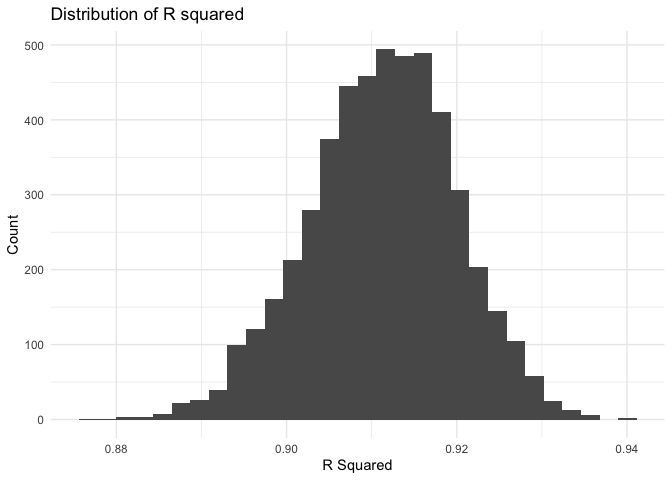
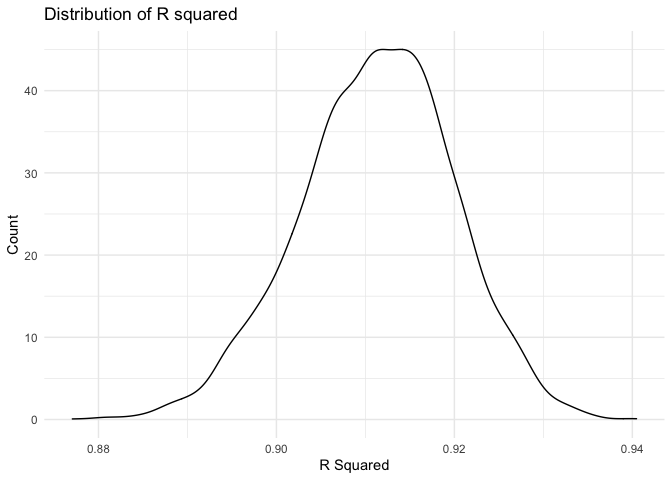
correct problem 2 code + add comments to chunks

diff --git a/p8105_hw6_by2287.md b/p8105_hw6_by2287.md
@@ -38,13 +38,22 @@ glm(resolution ~ victim_age + victim_sex + victim_race, family = binomial() , da
   ) %>% 
   select(term, odds_ratio, starts_with("CI")) %>% 
   knitr::kable(digits = 3)
+
+baltimore_logitstic
 ```
+
+| term              | odds\_ratio | ci\_lower | ci\_upper |
+| :---------------- | ----------: | --------: | --------: |
+| (Intercept)       |       1.363 |     0.975 |     1.907 |
+| victim\_age       |       0.993 |     0.987 |     1.000 |
+| victim\_sexMale   |       0.426 |     0.325 |     0.558 |
+| victim\_raceWhite |       2.320 |     1.648 |     3.268 |
 
 #### Fit a logistic regression on all the cities
 
 ``` r
 models_results = homicide_df %>% 
-  mutate(victim_race = fct_relevel(victim_race, "White")) %>% #reordering to compare black victims to white victims
+  #mutate(victim_race = fct_relevel(victim_race, "White")) %>% #reordering to compare black victims to white victims
   nest(data = -city_state) %>% 
   mutate(
     models = map(.x = data, ~ glm(resolution ~ victim_age + victim_sex + victim_race, data = .x, family = binomial())),
@@ -72,29 +81,29 @@ models_results %>%
  theme(axis.text.x = element_text(angle = 60, vjust = 1.0, hjust = 1), legend.position = "none") + 
  geom_hline(yintercept=1, linetype="dashed", color = "red", size=0.5) +
   labs(
-    title = "Odds Ratio of case Resolution Status, by City",
-    subtitle  = "Comparing whether a homicide case is resolved for male Black victims to White victims, by City",
-    x = "Odds Ratio",
-    y = "City-States"
+    title = "Odds Ratio of Homicide case Resolution Status, by City",
+    subtitle  = "The odds ratio of case resolution, comparing male victims to female victims, controlling for age & sex",
+    y = "Odds Ratio",
+    x = "City-States"
   )  
 ```
 
 ![](p8105_hw6_by2287_files/figure-gfm/unnamed-chunk-5-1.png)<!-- -->
 
-The estimated odds of a homicide case being resolved for male Black
-victims compared to the estimated odds of a homicide case being resolved
-for White victims is lowest is New York City, NY (with evidence of
-statistical significance); and highest in Albuquerque New Mexico,
-although this is not statistical significant. The former observation
-means that in New York City (as well as Baton Rouge, Louisiana; Omaha,
-Nebraska; Chicago, Illinois, and others whose Odds Ratio & and their 95%
-confidence interval is well below the dashed red line), if the homicide
-victims are Black, the likelihood that that case will be resolved is
-lower than if they were a white victim. However, this observation
-doesn’t hold true in Boston, MA, Tampa, Florida, Atlanta, Georgia and
-other city-states whose odds ration and 95% confidence interval either
-crosses or is above the null value of odds ratio = 1 (indicated by the
-dashed red line.)
+The estimated odds of a homicide case being resolved for male victims
+compared to the estimated odds of a homicide case being resolved for
+female victims is lowest is New York City, NY (with evidence of
+statistical significance), adjusting for race, age; and highest in
+Albuquerque New Mexico, although this is not statistical significant.
+The former observation means that in New York City (as well as Baton
+Rouge, Louisiana; Omaha, Nebraska; Chicago, Illinois, and others whose
+Odds Ratio & and their 95% confidence interval is below the dashed red
+line), if the homicide victims are males, the likelihood that that case
+will be resolved is lower than if they were a female victim. However,
+this observation doesn’t hold true in Boston, MA, Tampa, Florida,
+Atlanta, Georgia and other city-states whose odds ration and 95%
+confidence interval either crosses or is above the null value of odds
+ratio = 1 (indicated by the dashed red line.)
 
 ## Problem 2
 
@@ -122,6 +131,7 @@ baby_df =
         mrace == 8 ~ "Other",
         TRUE ~ ""
       ) %>% as.factor(),
+    mrace = fct_relevel(mrace, "Other"),
     delwt = delwt*453.592 %>% round(2),
     mheight = mheight*2.54 %>% round(2)
   )
@@ -170,18 +180,18 @@ None of the variables contain missing values
 
 #### Proposing an initial model for birthweight
 
-Hypothesis driving proposed model:
+Hypothesis driven approach to build a model:
 
 An infant’s overall health depends on the overall health status of the
 mother and the mother’s physical ability (without considering
 sociodemographic factors) play important roles in determining the baby’s
 health, and indeed the baby’s birthweight. I will treat three factors as
 proxies of the mother’s health status and physical ability: mother’s
-weight, height, and age.
+`weight`, `height`, and `age`.
 
-Therefore, I hypothesize that a baby’s birhtweight can be explained by a
-linear relationship to a mother’s weight, adjusting for height and age.
-I propose to build a linear models that attemps to describe this
+Therefore, I hypothesize that a baby’s `birhtweight` can be explained by
+a linear relationship to a mother’s `weight`, adjusting for `height` and
+`age`. I propose to build a linear model that attempts to describe this
 relationship.
 
 First, I will assess the linearity and normality assumption a `linear`
@@ -201,15 +211,16 @@ baby_df %>%
   )
 ```
 
-![](p8105_hw6_by2287_files/figure-gfm/unnamed-chunk-8-1.png)<!-- --> The
-histogram of a baby birthweight in the data follows a normal
+![](p8105_hw6_by2287_files/figure-gfm/unnamed-chunk-8-1.png)<!-- -->
+
+The histogram of a baby birth-weight in the data follows a normal
 distribution as shown above.
 
-I will next assess the linearity assumption by plotting a scatter plot
-between the outcome variable `birthweight` and these three proposed
-predictors.
-
 **Linearity Assumption**
+
+I will next assess the linearity assumption by plotting a scatter plot
+between the outcome variable `birthweight` and these three continuous
+proposed predictors.
 
 ``` r
 bwt_delwt = baby_df %>% 
@@ -260,27 +271,30 @@ linear model.
 
 #### Fitting the proposed Initial model
 
-\#\#\#\#Fitting a smooth model
-
 ``` r
 lin_fit = 
   baby_df %>% 
 lm(bwt ~ delwt + mheight + momage, data = .) 
 ```
 
-model summary
+**Model summary**
 
 ``` r
 lin_fit %>% 
   broom::glance() %>% 
+  select(r.squared, adj.r.squared, sigma, statistic, p.value, df, nobs) %>% 
   knitr::kable(digits = 2)
 ```
 
-| r.squared | adj.r.squared |  sigma | statistic | p.value | df |     logLik |      AIC |      BIC |   deviance | df.residual | nobs |
-| --------: | ------------: | -----: | --------: | ------: | -: | ---------: | -------: | -------: | ---------: | ----------: | ---: |
-|       0.1 |           0.1 | 485.73 |    162.69 |       0 |  3 | \-33017.17 | 66044.34 | 66076.22 | 1023497467 |        4338 | 4342 |
+| r.squared | adj.r.squared |  sigma | statistic | p.value | df | nobs |
+| --------: | ------------: | -----: | --------: | ------: | -: | ---: |
+|       0.1 |           0.1 | 485.73 |    162.69 |       0 |  3 | 4342 |
 
-model estimates
+It appears that the initial model, with an r.squared value of 0.1, only
+explains about 10% of the variation in the outcome variable: baby’s
+`birthweight`
+
+**Model estimates**
 
 ``` r
 lin_fit %>% 
@@ -303,6 +317,7 @@ baby_df %>%
   add_predictions(lin_fit) %>% 
   ggplot(aes(x = pred, y = resid)) + 
   geom_point(alpha = .2) + 
+  geom_smooth(se = F) + 
   labs(
     title = "Fitted Values Vs. Residuals (Initial Model)",
     x = "Model Predicted Birthweight",
@@ -310,21 +325,30 @@ baby_df %>%
   )
 ```
 
+    ## `geom_smooth()` using method = 'gam' and formula 'y ~ s(x, bs = "cs")'
+
 ![](p8105_hw6_by2287_files/figure-gfm/unnamed-chunk-13-1.png)<!-- -->
 
 The residuals appear to be evenly distributed for the most part, save
-for what appears to be a cluster at weight range 3000 - 3250 grams.
+for what appears to be a cluster at weight range 3000 - 3250 grams, and
+a somewhat curved trend as the predicted birthweight increases. This
+perhaps indicates that the linear fit model has clear shortcomings when
+trying describe/predict birthweight, given the predictors the model is
+based off of.
 
 #### Building two additional models with different predictors & compare to the initial model:
 
 Two models:
 
-One using length at birth and gestational age as predictors (main
-effects only) One using head circumference, length, sex, and all
-interactions (including the three-way interaction) between these
+  - One using length at birth and gestational age as predictors (main
+    effects only)
+  - One using head circumference, length, sex, and all interactions
+    (including the three-way interaction) between these
+
+<!-- end list -->
 
 ``` r
-#model 2
+#model 2 - Main_Model 
 baby_df %>% 
 lm(bwt ~ blength + gaweeks, data = .) %>% 
   broom::tidy() %>% 
@@ -338,7 +362,7 @@ lm(bwt ~ blength + gaweeks, data = .) %>%
 | gaweeks     |     27.047 |     1.718 |    15.744 |       0 |
 
 ``` r
-#model 3
+#model 3 - Interact_Model
 baby_df %>% 
   lm(bwt ~ bhead + blength + babysex + bhead*blength*babysex, data = .) %>% 
   broom::tidy() %>% 
@@ -378,18 +402,18 @@ RMSE values of the corresponding models
 ``` r
 cv_df = cv_df %>% 
   mutate(
-    model_1 = map(.x = train, ~lm(bwt ~ delwt + mheight + momage, data = .x)),
-    model_2 = map(.x = train, ~ lm(bwt ~ blength + gaweeks, data = .x)),
-    model_3 = map(.x = train, ~ lm(bwt ~ bhead + blength + babysex + bhead*blength*babysex, data = .x))
+    initial_model = map(.x = train, ~lm(bwt ~ delwt + mheight + momage, data = .x)),
+    main_model = map(.x = train, ~ lm(bwt ~ blength + gaweeks, data = .x)),
+    interact_model = map(.x = train, ~ lm(bwt ~ bhead + blength + babysex + bhead*blength*babysex, data = .x))
   ) %>% 
   mutate(
-    rmse_model_1 = map2_dbl(.x = model_1, .y = test, ~rmse(model = .x, data =.y)),
-    rmse_model_2 = map2_dbl(.x = model_2, .y = test, ~rmse(model = .x, data =.y)),
-    rmse_model_3 = map2_dbl(.x = model_3, .y = test, ~rmse(model = .x, data =.y))
+    rmse_initial_model = map2_dbl(.x = initial_model, .y = test, ~rmse(model = .x, data =.y)),
+    rmse_main_model = map2_dbl(.x = main_model, .y = test, ~rmse(model = .x, data =.y)),
+    rmse_interact_model = map2_dbl(.x = interact_model, .y = test, ~rmse(model = .x, data =.y))
   ) 
 ```
 
-Compare RMSE’s of the `smooth` and `linear` model
+Compare RMSE’s of the 3 models
 
 ``` r
 #tidy the cross_validation dataframe first
@@ -411,11 +435,11 @@ rmse_df %>%
   knitr::kable()
 ```
 
-| model    | mean\_rmse |
-| :------- | ---------: |
-| model\_1 |   487.1363 |
-| model\_2 |   332.2287 |
-| model\_3 |   288.6030 |
+| model           | mean\_rmse |
+| :-------------- | ---------: |
+| initial\_model  |   487.1363 |
+| interact\_model |   288.6030 |
+| main\_model     |   332.2287 |
 
 ``` r
 #Plot the distribution of the RMSE values
@@ -432,8 +456,8 @@ rmse_df %>%
 
 ![](p8105_hw6_by2287_files/figure-gfm/unnamed-chunk-17-1.png)<!-- -->
 
-Of the 3 models built here the 3rd model (`bwt ~ bhead + blength +
-babysex + bhead*blength*babysex`) appears to be the best model to
+Of the 3 models built here the `interact_model` (`bwt ~ bhead + blength
++ babysex + bhead*blength*babysex`) appears to be the best model to
 predict `birthweight`, using RMSE as a discriminator.
 
 Fit the best model
@@ -444,20 +468,20 @@ best_model =
   lm(bwt ~ bhead + blength + babysex + bhead*blength*babysex, data = .)
 
 best_model %>%
-  broom::tidy()
+  broom::tidy() %>% 
+  knitr::kable()
 ```
 
-    ## # A tibble: 8 x 5
-    ##   term                      estimate std.error statistic    p.value
-    ##   <chr>                        <dbl>     <dbl>     <dbl>      <dbl>
-    ## 1 (Intercept)                -802.    1102.       -0.728 0.467     
-    ## 2 bhead                       -16.6     34.1      -0.487 0.626     
-    ## 3 blength                     -21.6     23.4      -0.926 0.354     
-    ## 4 babysexmale               -6375.    1678.       -3.80  0.000147  
-    ## 5 bhead:blength                 3.32     0.713     4.67  0.00000317
-    ## 6 bhead:babysexmale           198.      51.1       3.88  0.000105  
-    ## 7 blength:babysexmale         124.      35.1       3.52  0.000429  
-    ## 8 bhead:blength:babysexmale    -3.88     1.06     -3.67  0.000245
+| term                      |      estimate |    std.error |   statistic |   p.value |
+| :------------------------ | ------------: | -----------: | ----------: | --------: |
+| (Intercept)               |  \-801.948671 | 1102.3077046 | \-0.7275180 | 0.4669480 |
+| bhead                     |   \-16.597546 |   34.0916082 | \-0.4868514 | 0.6263883 |
+| blength                   |   \-21.645964 |   23.3720477 | \-0.9261475 | 0.3544209 |
+| babysexmale               | \-6374.868351 | 1677.7669213 | \-3.7996150 | 0.0001469 |
+| bhead:blength             |      3.324444 |    0.7125586 |   4.6655020 | 0.0000032 |
+| bhead:babysexmale         |    198.393181 |   51.0916850 |   3.8830816 | 0.0001047 |
+| blength:babysexmale       |    123.772887 |   35.1185360 |   3.5244319 | 0.0004288 |
+| bhead:blength:babysexmale |    \-3.878053 |    1.0566296 | \-3.6702106 | 0.0002453 |
 
 Plotting residuals vs. fitted values - of the
 
@@ -467,8 +491,9 @@ baby_df %>%
   add_predictions(best_model) %>% 
   ggplot(aes(x = pred, y = resid)) + 
   geom_point(alpha = .2) + 
+  geom_smooth(se = F) + 
   labs(
-    title = "Fitted Values Vs. Residuals (3rd & best Model)",
+    title = "Fitted Values Vs. Residuals (Interact_Model)",
     x = "Model Predicted Birthweight",
     y = "Model Residuals"
   )
@@ -476,7 +501,7 @@ baby_df %>%
 
 ![](p8105_hw6_by2287_files/figure-gfm/unnamed-chunk-19-1.png)<!-- -->
 
-The residuals appear to not be evenly distributed in the plot shown
+The residuals appear to mostly evenly distributed in the plot shown
 above.
 
 ## Problem 3
@@ -537,10 +562,13 @@ r_squred_distb %>%
 | --------: | --------: |
 |    0.8937 |    0.9275 |
 
+Plotting the distribution of the `r.squared` values obtained after
+bootstrapping
+
 ``` r
 r_squred_distb %>% 
   ggplot(aes(x = r.squared)) + 
-  geom_histogram() + 
+   geom_density() + 
   labs(
     title = "Distribution of R squared",
     x = "R Squared",
@@ -548,12 +576,11 @@ r_squred_distb %>%
   ) 
 ```
 
-    ## `stat_bin()` using `bins = 30`. Pick better value with `binwidth`.
-
 ![](p8105_hw6_by2287_files/figure-gfm/unnamed-chunk-24-1.png)<!-- -->
 
 The R squared values we obtained from the `bootstrap` technique appears
-to be normally distributed.
+to be normally distributed around the mean of: 0.9112686, with a 95%
+Confidence Interval of (0.894, 0.93).
 
 #### Distribution of log(beta\_0∗beta\_1)
 
@@ -582,7 +609,7 @@ parameter_distb = bootstrap_df %>%
 ```
 
 The 95% confidence interval for the log of the product of the estimated
-slope and intercept: log(beta\_0∗beta\_tmin).
+slope and intercept: log(beta\_0∗beta\_tmin)
 
 ``` r
 parameter_distb %>% 
@@ -597,10 +624,13 @@ parameter_distb %>%
 | --------: | --------: |
 |    1.9669 |    2.0585 |
 
+Plotting the distribution of the `log(beta_0∗beta_tmin)` values obtained
+after bootstrapping
+
 ``` r
 parameter_distb %>% 
   ggplot(aes(x = log_b0_b1)) + 
-  geom_histogram() + 
+  geom_density() +
   labs(
     title = "Distribution of Log(beta_0*beta_tmin)",
     x = "Log(Beta_0*Beta_tmin)",
@@ -608,11 +638,10 @@ parameter_distb %>%
   ) 
 ```
 
-    ## `stat_bin()` using `bins = 30`. Pick better value with `binwidth`.
-
 ![](p8105_hw6_by2287_files/figure-gfm/unnamed-chunk-27-1.png)<!-- -->
 
-The Log(beta\_o\*beta\_tmin) values i.e., the distribution of the log of
+The Log(beta\_0\*beta\_tmin) values i.e., the distribution of the log of
 the product of the estimated intercept and estimated coefficient we
 obtained from the `bootstrap` technique also appear to be normally
-distributed.
+distributed. The mean value of `Log(beta_0 x beta_tmin)` is 2.01, with a
+95% Confidence Interval of (`1.97`, `2.06`).
